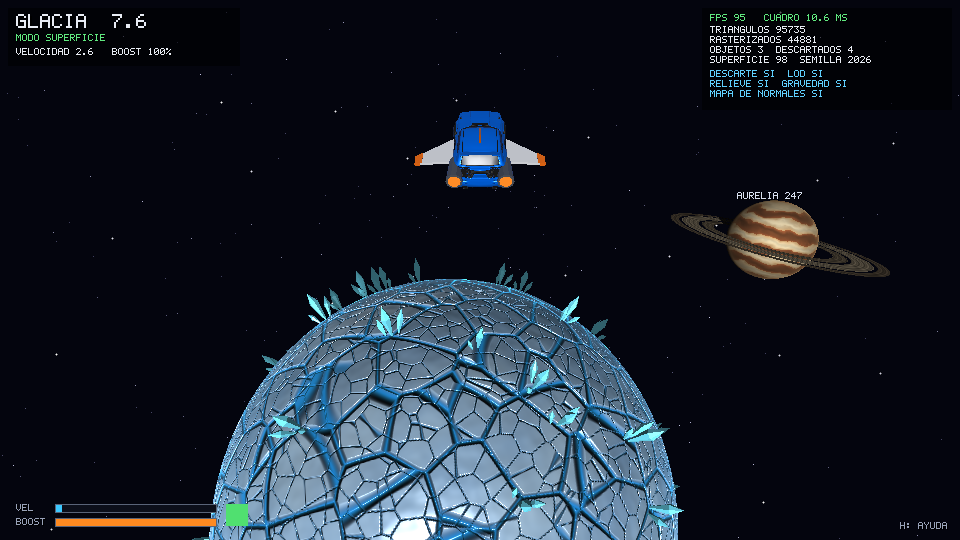
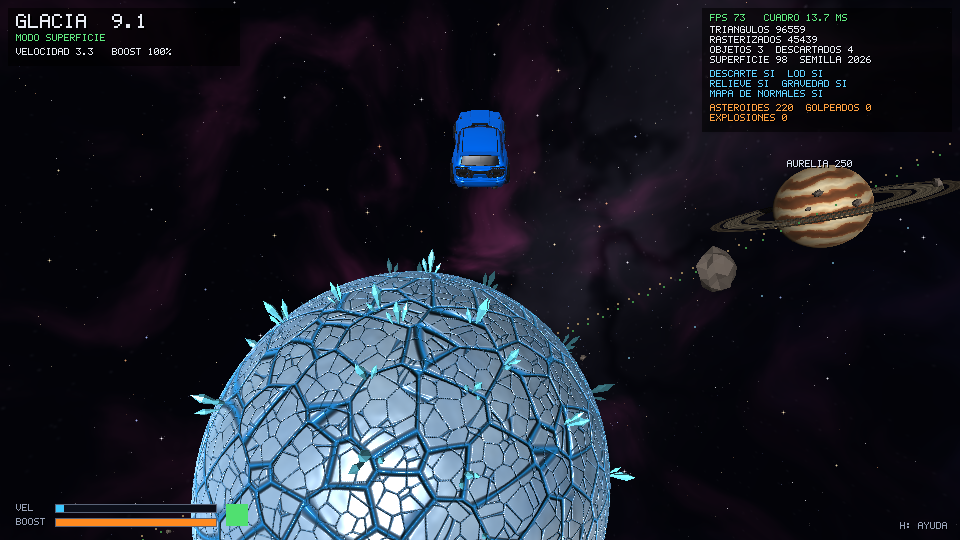
README y capturas con el fondo nuevo

diff --git a/README.md b/README.md
@@ -22,6 +22,9 @@ más cercano al sol, da una vuelta en ~35 s y Aurelia, el más lejano, en ~430 s
 Vergel hay un **cinturón de asteroides**: el carro puede chocar las rocas, que salen disparadas y,
 si llegan a un planeta o al sol, **explotan**.
 
+De fondo hay un universo generado por procedimiento: la **Vía Láctea**, **nebulosas** de colores,
+**galaxias espirales** lejanas y 5000 estrellas de distintos colores.
+
 El carro puede viajar entre ellos, acercarse, rodearlos en **modo superficie** y volver a alejarse
 sin pantallas de carga ni cambios de escena.
 
@@ -32,6 +35,7 @@ sin pantallas de carga ni cambios de escena.
 | ![Aurelia y sus anillos](docs/capturas/08_aurelia.png) | ![Ignis](docs/capturas/09_ignis.png) |
 | ![Vista general: el sol, las órbitas y el cinturón de asteroides](docs/capturas/11_orbitas.png) | ![Boost saliendo de los escapes del Fennec](docs/capturas/10_boost.png) |
 | ![Trayectoria prevista por la gravedad](docs/capturas/06_gravedad.png) | ![Explosión de un asteroide al chocar con Duna](docs/capturas/12_explosion.png) |
+| ![Fondo: nebulosa, Vía Láctea y una galaxia espiral](docs/capturas/13_universo.png) | |
 
 ---
 
@@ -102,7 +106,7 @@ Probado en **Windows 11** con **MSYS2 UCRT64**.
    También se puede abrir `build/galaxia.exe` con doble clic o desde PowerShell, sin tener MSYS2 en
    el PATH.
 
-Al arrancar tarda unos **3 segundos** en generar las superficies del sol y los planetas.
+Al arrancar tarda unos **3.5 segundos** en generar las superficies del sol, los planetas y el fondo.
 
 ### Opciones de línea de comandos (para pruebas)
 
@@ -222,6 +226,7 @@ src/
   ship.*              Física del carro: control, modo superficie, gravedad, colisión
   camera.*            Cámara de persecución
   hud.*, font.*       HUD y fuente propia de 5x7 píxeles
+  skybox.*            Fondo del universo: Vía Láctea, nebulosas y galaxias (cubemap horneado)
   boost_flame.*       Llama de cohete del boost (escapes del Fennec)
   particles.*         Partículas de fuego y humo (estela del boost y explosiones)
   asteroids.*         Cinturón de asteroides: órbitas, choques con el carro y explosiones
@@ -276,6 +281,21 @@ Cada shader es una función que recibe el fragmento interpolado y devuelve su co
 | `asteroidShader` | Asteroides | Lambert con luz del sol, luz ambiente y un borde tenue para distinguirlos del fondo |
 | `flameShader` | Llama del boost | Emisiva. **Núcleo caliente** donde se mira a través de más fuego (centro de la silueta o a lo largo del eje), naranja en los bordes y rojo en la punta; pulsos que viajan hacia atrás con el tiempo |
 | `propShader` | Objetos de superficie | Lambert y especular por material, brillo propio y sombra del planeta (sin luz si el sol está bajo su horizonte) |
+
+### Fondo del universo ([skybox.cpp](src/skybox.cpp))
+
+- Al arrancar se hornea un cubemap de 512×512 por cara con:
+  - **Vía Láctea:** una franja alrededor de un gran círculo del cielo, con grumos de estrellas (fbm)
+    y canales de polvo oscuro (donde el ruido cruza cero).
+  - **Nebulosas:** tres nubes de gas de colores hechas con ruido fractal deformado con otro ruido.
+  - **Galaxias espirales:** seis, con núcleo y dos brazos en espiral logarítmica, cada una con su
+    inclinación y orientación.
+  - **Polvo de estrellas** tenue (ruido celular).
+- Para dibujarlo, a cada píxel se le calcula la dirección en que mira la cámara (deshaciendo la
+  proyección y la rotación de la vista) y se lee el cubemap; se reparte en franjas entre los hilos.
+  Como solo depende de la dirección, el fondo se ve infinitamente lejos.
+- Encima van **5000 estrellas nítidas** como puntos, con colores según su temperatura (azules,
+  blancas, amarillas y anaranjadas), sumadas al fondo; las más brillantes con destello en cruz.
 
 ### Choques del carro ([ship.cpp](src/ship.cpp))
 
